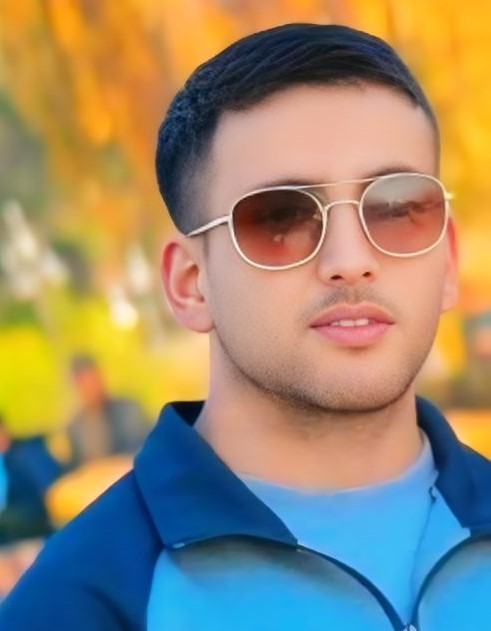
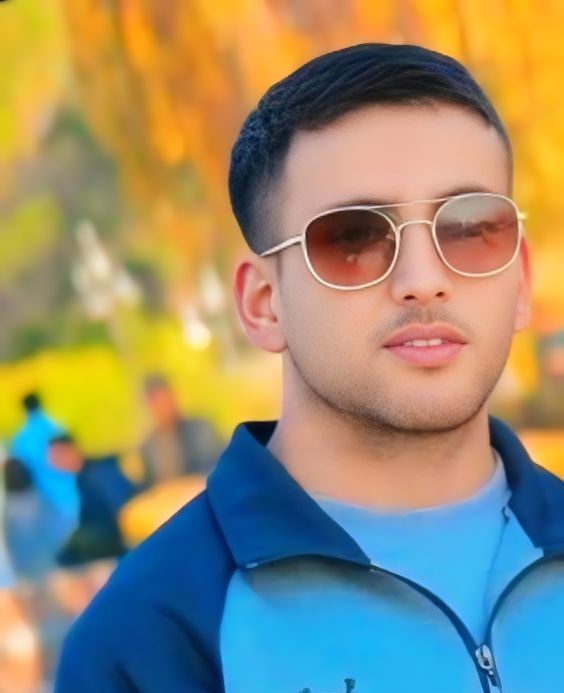
first commit

diff --git a/src/app/components/Navbar.jsx b/src/app/components/Navbar.jsx
@@ -1,7 +1,7 @@
-"use client"
-import React, { useState } from 'react';
-import Image from 'next/image';
-import { FaBriefcase } from 'react-icons/fa';
+"use client";
+import React, { useState } from "react";
+import Image from "next/image";
+import { FaBriefcase } from "react-icons/fa";
 
 const Navbar = () => {
   const [isMobileMenuOpen, setIsMobileMenuOpen] = useState(false);
@@ -12,8 +12,7 @@ const Navbar = () => {
 
   return (
     <div>
-      {/* Gradient background added here */}
-      <nav className="bg-gray-900">
+      <nav className="bg-gray-900 z-10 fixed top-0 w-full">
         <div className="mx-auto max-w-7xl px-2 sm:px-6 lg:px-8">
           <div className="relative flex h-16 items-center justify-between">
             <div className="absolute inset-y-0 left-0 flex items-center sm:hidden">
@@ -22,42 +21,112 @@ const Navbar = () => {
                 type="button"
                 className="relative inline-flex items-center justify-center rounded-md p-2 text-gray-400 hover:bg-gray-700 hover:text-white focus:outline-none focus:ring-2 ring-purple- focus:ring-inset focus:ring-white"
                 aria-controls="mobile-menu"
-                aria-expanded={isMobileMenuOpen ? 'true' : 'false'}
+                aria-expanded={isMobileMenuOpen ? "true" : "false"}
               >
                 <span className="sr-only">Open main menu</span>
 
-                <svg className={`${isMobileMenuOpen ? 'hidden' : 'block'} h-6 w-6`} fill="none" viewBox="0 0 24 24" strokeWidth="1.5" stroke="currentColor" aria-hidden="true">
-                  <path strokeLinecap="round" strokeLinejoin="round" d="M3.75 6.75h16.5M3.75 12h16.5m-16.5 5.25h16.5" />
+                <svg
+                  className={`${isMobileMenuOpen ? "hidden" : "block"} h-6 w-6`}
+                  fill="none"
+                  viewBox="0 0 24 24"
+                  strokeWidth="1.5"
+                  stroke="currentColor"
+                  aria-hidden="true"
+                >
+                  <path
+                    strokeLinecap="round"
+                    strokeLinejoin="round"
+                    d="M3.75 6.75h16.5M3.75 12h16.5m-16.5 5.25h16.5"
+                  />
                 </svg>
 
-                <svg className={`${isMobileMenuOpen ? 'block' : 'hidden'} h-6 w-6`} fill="none" viewBox="0 0 24 24" strokeWidth="1.5" stroke="currentColor" aria-hidden="true">
-                  <path strokeLinecap="round" strokeLinejoin="round" d="M6 18L18 6M6 6l12 12" />
+                <svg
+                  className={`${isMobileMenuOpen ? "block" : "hidden"} h-6 w-6`}
+                  fill="none"
+                  viewBox="0 0 24 24"
+                  strokeWidth="1.5"
+                  stroke="currentColor"
+                  aria-hidden="true"
+                >
+                  <path
+                    strokeLinecap="round"
+                    strokeLinejoin="round"
+                    d="M6 18L18 6M6 6l12 12"
+                  />
                 </svg>
               </button>
             </div>
 
             <div className="flex flex-1 items-center justify-center sm:items-stretch sm:justify-start">
               <div className="flex-shrink-0 items-center hidden lg:block text-white">
-              <FaBriefcase className='text-2xl'/>
+                <FaBriefcase className="text-2xl" />
               </div>
               <div className="hidden sm:ml-6 sm:block">
                 <div className="flex space-x-4">
-                  <a href="#home" className="rounded-md bg-gray-950 px-3 py-2 text-sm font-medium text-white" aria-current="page">Home</a>
-                  <a href="#about" className="rounded-md px-3 py-2 text-sm font-medium text-gray-300 hover:bg-blue-950 hover:text-white">About</a>
-                  <a href="#experience" className="rounded-md px-3 py-2 text-sm font-medium text-gray-300 hover:bg-blue-950 hover:text-white">Experience</a>
-                  <a href="#skills" className="rounded-md px-3 py-2 text-sm font-medium text-gray-300 hover:bg-blue-950 hover:text-white">Skills</a>
-                  <a href="#education" className="rounded-md px-3 py-2 text-sm font-medium text-gray-300 hover:bg-blue-950 hover:text-white">Education</a>
-                  <a href="#projects" className="rounded-md px-3 py-2 text-sm font-medium text-gray-300 hover:bg-blue-950 hover:text-white">Projects</a>
-                  <a href="#contact" className="rounded-md px-3 py-2 text-sm font-medium text-gray-300 hover:bg-blue-950 hover:text-white">Contact</a>
+                  <a
+                    href="#home"
+                    className="rounded-md bg-gray-950 px-3 py-2 text-sm font-medium text-white"
+                    aria-current="page"
+                  >
+                    Home
+                  </a>
+                  <a
+                    href="#aboutme"
+                    className="rounded-md px-3 py-2 text-sm font-medium text-gray-300 hover:bg-blue-950 hover:text-white"
+                  >
+                    About
+                  </a>
+                  <a
+                    href="#experience"
+                    className="rounded-md px-3 py-2 text-sm font-medium text-gray-300 hover:bg-blue-950 hover:text-white"
+                  >
+                    Experience
+                  </a>
+                  <a
+                    href="#skills"
+                    className="rounded-md px-3 py-2 text-sm font-medium text-gray-300 hover:bg-blue-950 hover:text-white"
+                  >
+                    Skills
+                  </a>
+                  <a
+                    href="#education"
+                    className="rounded-md px-3 py-2 text-sm font-medium text-gray-300 hover:bg-blue-950 hover:text-white"
+                  >
+                    Education
+                  </a>
+                  <a
+                    href="#projects"
+                    className="rounded-md px-3 py-2 text-sm font-medium text-gray-300 hover:bg-blue-950 hover:text-white"
+                  >
+                    Projects
+                  </a>
+                  <a
+                    href="#contact"
+                    className="rounded-md px-3 py-2 text-sm font-medium text-gray-300 hover:bg-blue-950 hover:text-white"
+                  >
+                    Contact
+                  </a>
                 </div>
               </div>
             </div>
             <div className="absolute inset-y-0 right-0 flex items-center pr-2 sm:static sm:inset-auto sm:ml-6 sm:pr-0">
               <div className="relative ml-3">
                 <div>
-                  <button type="button" className="relative flex rounded-full bg-gray-800 text-sm focus:outline-none focus:ring-2 focus:ring-white focus:ring-offset-2 focus:ring-offset-gray-800" id="user-menu-button" aria-expanded="false" aria-haspopup="true">
+                  <button
+                    type="button"
+                    className="relative flex rounded-full bg-gray-800 text-sm focus:outline-none focus:ring-2 focus:ring-white focus:ring-offset-2 focus:ring-offset-gray-800"
+                    id="user-menu-button"
+                    aria-expanded="false"
+                    aria-haspopup="true"
+                  >
                     <span className="sr-only">Open user menu</span>
-                    <Image className="h-8 w-8 rounded-full border border-blue-200" src="/img.jpg" alt="Dynamic Image" width="20" height="20" />
+                    <Image
+                      className="h-8 w-8 rounded-full border border-blue-200"
+                      src="/img.jpg"
+                      alt="Dynamic Image"
+                      width="20"
+                      height="20"
+                    />
                   </button>
                 </div>
               </div>
@@ -66,18 +135,58 @@ const Navbar = () => {
         </div>
 
         {/* Mobile Menu */}
-        <div className={`sm:hidden ${isMobileMenuOpen ? 'block' : 'hidden'}`} id="mobile-menu">
+        <div
+          className={`sm:hidden ${isMobileMenuOpen ? "block" : "hidden"}`}
+          id="mobile-menu"
+        >
           <div className="space-y-1 px-2 pb-3 pt-2">
-            <a href="#home" className="block rounded-md bg-gray-900 px-3 py-2 text-base font-medium text-white" aria-current="page">Home</a>
-            <a href="#about" className="block rounded-md px-3 py-2 text-base font-medium text-gray-300 hover:bg-gray-700 hover:text-white">About</a>
-            <a href="#experience" className="block rounded-md px-3 py-2 text-base font-medium text-gray-300 hover:bg-gray-700 hover:text-white">Experience</a>
-            <a href="#skills" className="block rounded-md px-3 py-2 text-base font-medium text-gray-300 hover:bg-gray-700 hover:text-white">Skills</a>
-            <a href="#education" className="block rounded-md px-3 py-2 text-base font-medium text-gray-300 hover:bg-gray-700 hover:text-white">Education</a>
-            <a href="#projects" className="block rounded-md px-3 py-2 text-base font-medium text-gray-300 hover:bg-gray-700 hover:text-white">Projects</a>
-            <a href="#contact" className="block rounded-md px-3 py-2 text-base font-medium text-gray-300 hover:bg-gray-700 hover:text-white">Contact</a>
+            <a
+              href="#home"
+              className="block rounded-md bg-gray-900 px-3 py-2 text-base font-medium text-white"
+              aria-current="page"
+            >
+              Home
+            </a>
+            <a
+              href="#aboutme"
+              className="block rounded-md px-3 py-2 text-base font-medium text-gray-300 hover:bg-gray-700 hover:text-white"
+            >
+              About
+            </a>
+            <a
+              href="#experience"
+              className="block rounded-md px-3 py-2 text-base font-medium text-gray-300 hover:bg-gray-700 hover:text-white"
+            >
+              Experience
+            </a>
+            <a
+              href="#skills"
+              className="block rounded-md px-3 py-2 text-base font-medium text-gray-300 hover:bg-gray-700 hover:text-white"
+            >
+              Skills
+            </a>
+            <a
+              href="#education"
+              className="block rounded-md px-3 py-2 text-base font-medium text-gray-300 hover:bg-gray-700 hover:text-white"
+            >
+              Education
+            </a>
+            <a
+              href="#projects"
+              className="block rounded-md px-3 py-2 text-base font-medium text-gray-300 hover:bg-gray-700 hover:text-white"
+            >
+              Projects
+            </a>
+            <a
+              href="#contact"
+              className="block rounded-md px-3 py-2 text-base font-medium text-gray-300 hover:bg-gray-700 hover:text-white"
+            >
+              Contact
+            </a>
           </div>
         </div>
       </nav>
+      <div className="pt-16"></div>
     </div>
   );
 };

diff --git a/src/app/components/AboutMe.jsx b/src/app/components/AboutMe.jsx
@@ -1,0 +1,59 @@
+import React from 'react'
+import Image from 'next/image';
+import { FaFile, FaFacebook, FaInstagram, FaGithub, FaLinkedin } from "react-icons/fa";
+
+const AboutMe = () => {
+    return (
+
+        <section id='aboutme' className="min-h-screen flex items-center justify-center px-4 py-20  bg-gradient-to-r from-gray-900 via-gray-600 to-gray-900">
+            <div className="container mx-auto flex flex-col lg:flex-row items-center">
+                <div className="lg:w-1/2 lg:pr-12">
+                    <h1 className="text-4xl sm:text-5xl lg:text-6xl font-bold mb-6 text-transparent bg-clip-text bg-gradient-to-r from-[#19e345] to-[#fff]">
+                        About Me
+                    </h1>
+                    <p className="mb-6 text-gray-300">
+                        I am Mubashir Ali, proudly representing the breathtaking region of Gilgit Baltistan, Pakistan, and currently based in the vibrant city of Islamabad. My academic journey began at Uswa Public School Yultar Skardu, where I successfully completed my matriculation, building a solid foundation for my educational pursuits.
+                    </p>
+                    <p className="mb-6 text-gray-300">
+                        Driven by a deep interest in the medical sciences, I pursued my Intermediate Pre-medical at Uswa Cadet College Islamabad, where I deepened my understanding of the complexities of the field. I further enhanced my knowledge by completing Bioinformatics and Artificial Intelligence courses from Peking University and IBM via Coursera.
+                    </p>
+                    <p className="mb-6 text-gray-300">
+                        These endeavors have equipped me with a unique blend of skills at the intersection of biology and cutting-edge technology. Additionally, I completed a freelancing training program with Digiskills, which has given me the tools and insights needed to navigate the evolving digital workspace.
+                    </p>
+                    <p className="mb-6 text-gray-300">
+                        As a result, I am a well-rounded individual with a strong educational background, ready to contribute to the dynamic fields of Bioinformatics, Artificial Intelligence, and freelancing.
+                    </p>
+                </div>
+                <div className="lg:w-1/2 flex flex-col items-center">
+                    <Image src="/my.jpg" alt="Mubashir Ali" className="rounded-lg mb-6 border-yellow-400 " 
+                    width={200}
+                    height={200}/>
+                    <div className="flex flex-col space-y-2">
+                        <a href="https://github.com/mubashir1837/Curriculum-Vitae/blob/main/Curriculum%20Vitae.pdf" target="_blank" className="flex items-center space-x-2 text-white hover:text-purple-400">
+                            <FaFile />
+                            <span>Download CV</span>
+                        </a>
+                        <a href="https://www.facebook.com/MubashirAliyaar3/" target="_blank" className="flex items-center space-x-2 text-white hover:text-blue-400">
+                            <FaLinkedin />
+                            <span>Follow on Facebook</span>
+                        </a>
+                        <a href="https://instagram.com/mubashir_aliyaar_37" target="_blank" className="flex items-center space-x-2 text-white hover:text-pink-400">
+                            <FaInstagram />
+                            <span>Follow on Instagram</span>
+                        </a>
+                        <a href="https://github.com/mubashir1837" target="_blank" className="flex items-center space-x-2 text-white hover:text-gray-400">
+                            <FaGithub />
+                            <span>Follow on GitHub</span>
+                        </a>
+                        <a href="https://linkedin.com/in/mubashirali3/" target="_blank" className="flex items-center space-x-2 text-white hover:text-blue-700">
+                            <FaLinkedin />
+                            <span>Follow on LinkedIn</span>
+                        </a>
+                    </div>
+                </div>
+            </div>
+        </section>
+    )
+}
+
+export default AboutMe

diff --git a/src/app/components/Hero.jsx b/src/app/components/Hero.jsx
@@ -46,19 +46,19 @@ const Hero = () => {
       {/* Hero Section */}
       <div className="text-center mb-8">
         <h1 className="text-2xl lg:text-5xl font-bold mb-1 text-white">Hello I&apos;m</h1>
-        <h2 className="text-4xl font-bold text-green-500">Ali Raza</h2>
+        <h2 className="text-4xl font-bold text-green-500">Mubashir</h2>
       </div>
 
       {/* Profile and Info Section */}
       <div className="flex flex-col md:flex-row items-center">
         <div className="w-full md:w-1/3 p-4">
           <Image
-            src="/ali.png" // Ensure this image is in the public/img folder
+            src="/my.jpg" // Ensure this image is in the public/img folder
             alt="profile"
             width={200}
             height={200}
             href='https://linkedin.com/in/mubashirali3/'
-            className="rounded-lg mx-auto shadow-lg m-2 hover:shadow-lg transition-transform transform hover:-translate-y-2 shadow-[#7d1bbf]"
+            className="rounded-lg mx-auto shadow-lg m-2 hover:shadow-lg transition-transform transform hover:-translate-y-2 shadow-[#dfd874]"
           />
         </div>
 
@@ -101,7 +101,7 @@ const Hero = () => {
             <h1 className="font-extrabold text-2xl">Available for Freelance Projects.</h1>
             <p>
               Explore new horizons with me! I&apos;m excited to embrace full-stack opportunities (remote or onsite) that spotlight my
-              frontend development expertise. If my skills resonate with you and you have a project that needs coding magic, let&aps;s
+              frontend development expertise. If my skills resonate with you and you have a project that needs coding magic, let&apos;s
               connect and bring it to life!
             </p>
             <br />

diff --git a/src/app/page.js b/src/app/page.js
@@ -4,6 +4,7 @@ import { useState, useEffect } from 'react';
 import Navbar from './components/Navbar';
 import Hero from './components/Hero';
 import Spinner from './components/Spinner';
+import AboutMe from './components/AboutMe'
 
 function Page() {
   const [loading, setLoading] = useState(false);
@@ -12,7 +13,7 @@ function Page() {
   const fetchData = async () => {
     setLoading(true);
     // Simulate a data fetch with a timeout (replace with your actual fetch logic)
-    await new Promise((resolve) => setTimeout(resolve, 500));
+    await new Promise((resolve) => setTimeout(resolve, 2000));
     setLoading(false);
   };
 
@@ -34,7 +35,9 @@ function Page() {
         <Navbar />  
       
       {/* Hero section */}
-      <Hero />  
+      <Hero />
+      <AboutMe/>  
+      
       </main>
     </>
   );

diff --git a/src/app/layout.js b/src/app/layout.js
@@ -13,14 +13,14 @@ const geistMono = localFont({
 });
 
 export const metadata = {
-  title: "Ali Raza Portfolio",
-  description: "I'm Ali Raza Public Administration Student at Quaid-e-Azam University Islamabad",
+  title: "Mubashir Ali",
+  description: "I'm Mubashir Ali Bioinformatics Student at Quaid-e-Azam University Islamabad",
 };
 
 export default function RootLayout({ children }) {
   return (
     <html lang="en">
-        <link rel="icon" href="/img.jpg" type="image/png" class="rounded-full"/>
+        <link rel="icon" href="/my.jpg" type="image/png" />
       <body
         className={`${geistSans.variable} ${geistMono.variable} antialiased`}
       >
